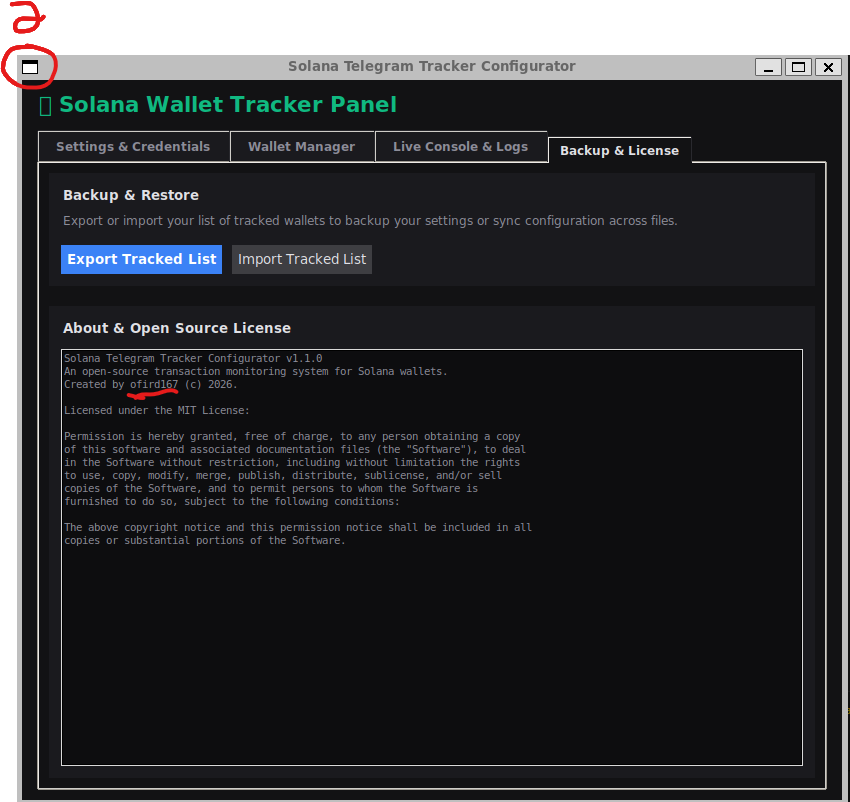
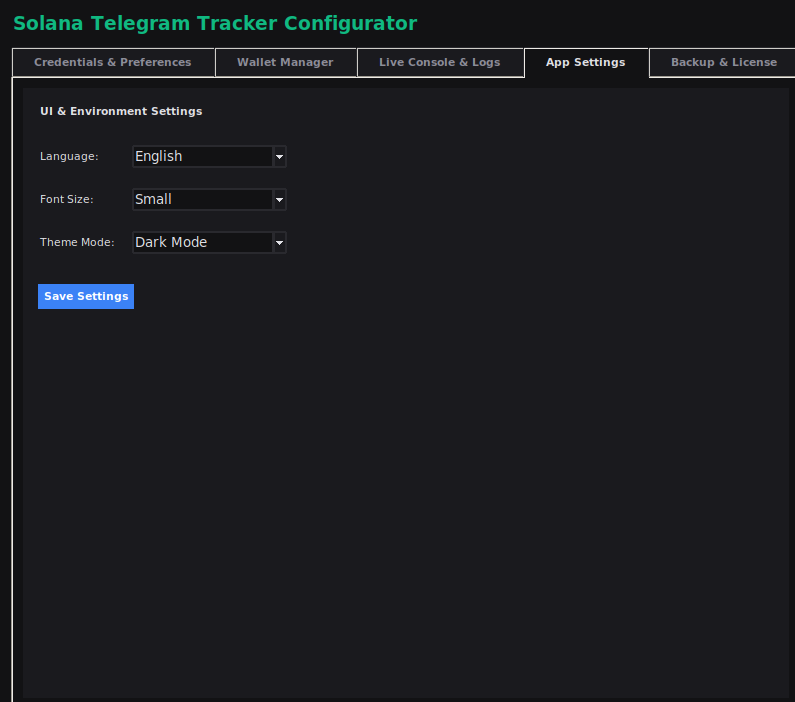
v1.3.0: Add translations, styling contrast fixes, zipping scripts, and updated screenshots

Changed region(s): [[0.0, 0.0, 1.0, 1.0], [0.5434, 0.6282, 0.5736, 0.688]]

diff --git a/README.md b/README.md
@@ -93,6 +93,9 @@ The Desktop GUI (`configurator.py`) provides an easy interface to control the bo
 ![Desktop Configurator Settings Panel](assets/screenshot_settings.png)
 *App Settings Panel supporting multiple languages (English, Russian, Arabic), font sizes, and dark/light modes.*
 
+![Desktop Configurator Live Logs](assets/screenshot_logs.png)
+*Live Console and Log Filtering Tab.*
+
 1. **Credentials Management**:
    * **Telegram Bot Token**: Insert and hide/show your token.
    * **Telegram Chat ID**: Save the target chat where notifications will go.
